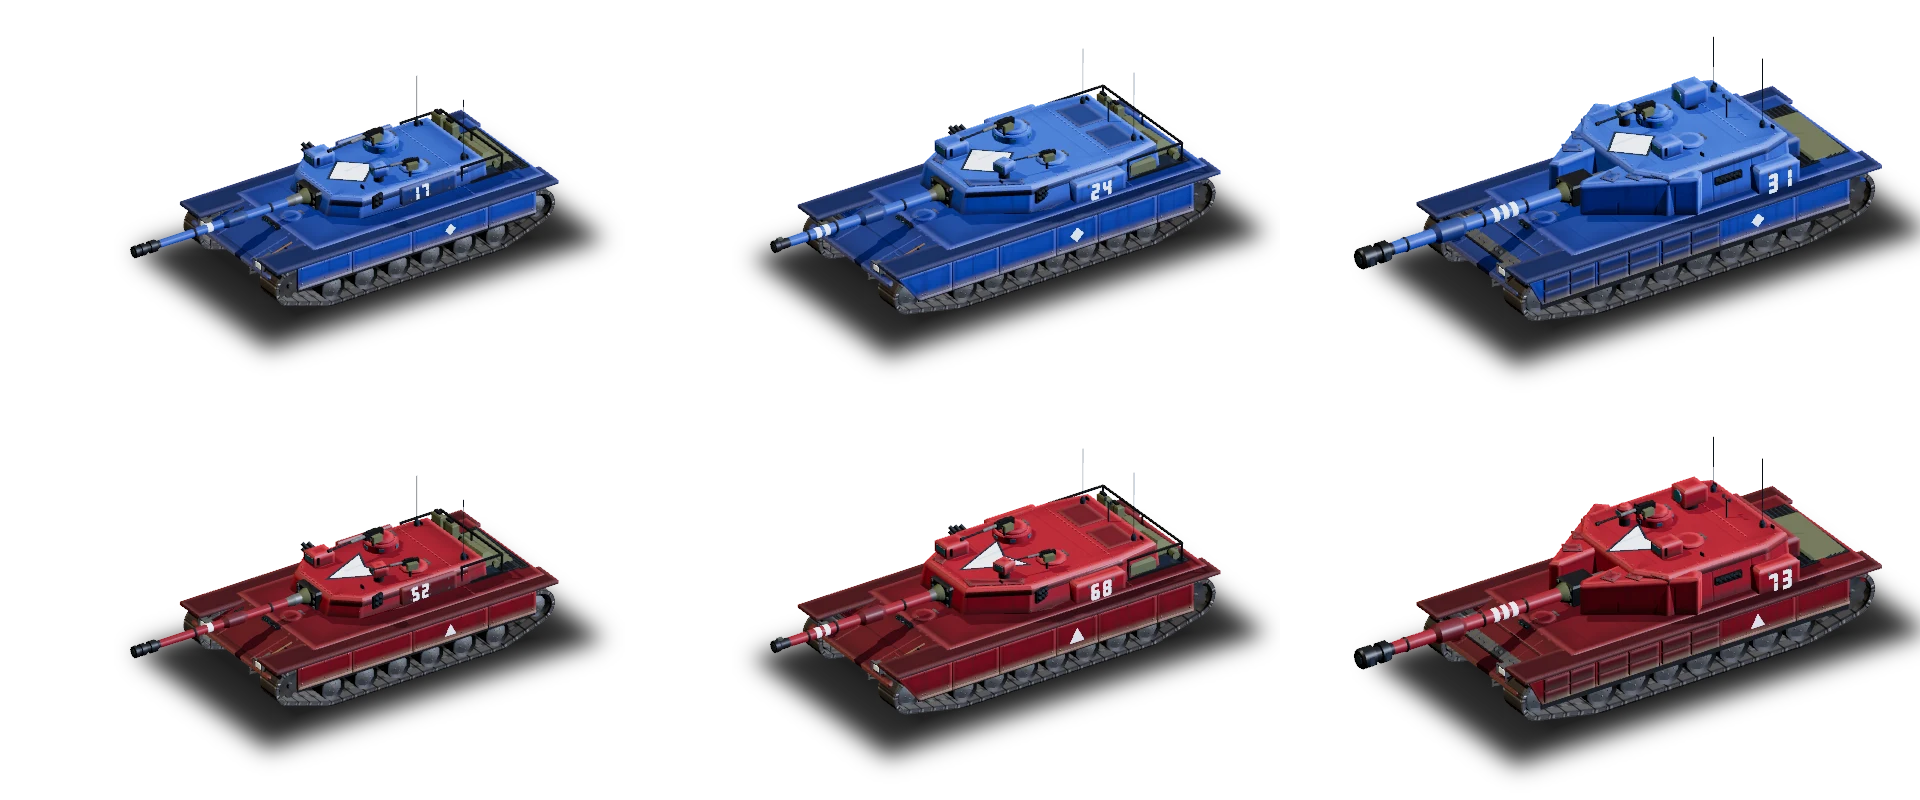
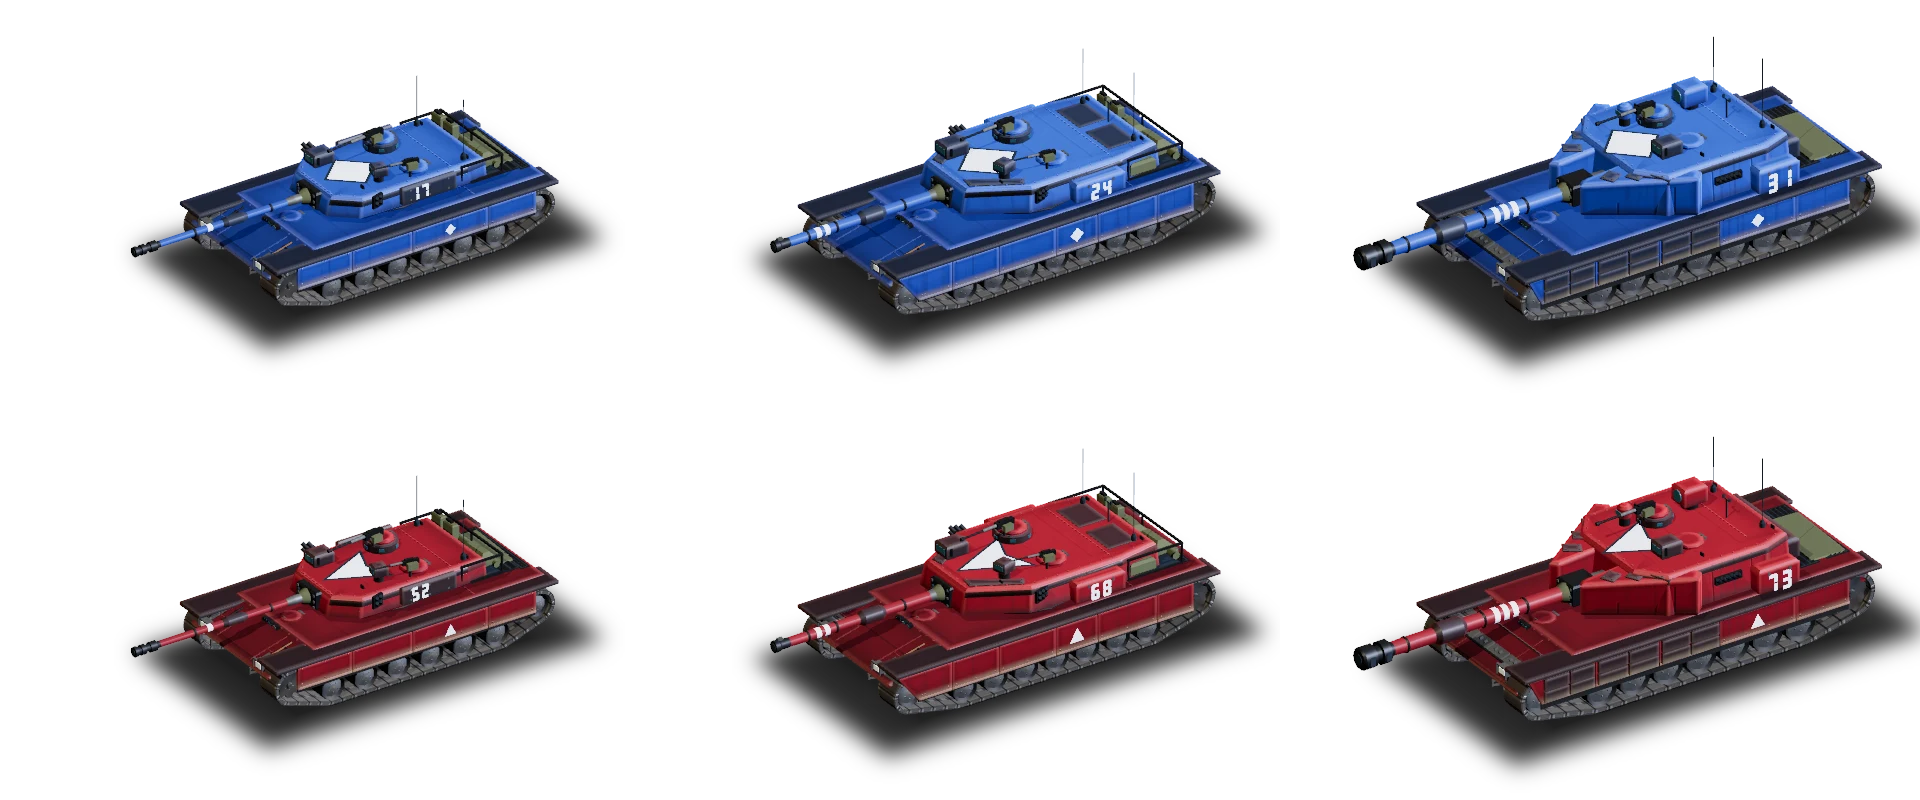
Vehicles round 6: graphite trim and sights, class calibres, larger roof insignia, splashed track dust, front-lit menu cards

diff --git a/tools/tank-previews.ts b/tools/tank-previews.ts
@@ -4,8 +4,8 @@
 // `tools/tank-surface-check.html` shows them at card and gameplay scale.
 //
 // The lighting is a garage card's: a dim warm hemisphere fill over a dark floor, a
-// warm, shadow-casting key light from the front left (out of the decks' specular
-// reflection, which would wash them pink) and a lowered exposure that keeps the
+// warm, shadow-casting key light from the front, over the side the card shows (still
+// out of the decks' specular reflection, which would wash them pink) and a lowered exposure that keeps the
 // red paint below ACES's shoulder (it turns bright red pink), and a strong, near
 // white rim light from behind on the right that lifts the side the card shows off
 // the navy card and edges the silhouette (a distant point light without falloff,
@@ -71,8 +71,8 @@ const SHADOW_OPACITY = 0.82;
 
 const SCENE = {
   background: 0x000000,
-  hemisphere: { sky: 0xfff2e4, ground: 0x3a3f47, intensity: 0.6 },
-  sun: { color: 0xfff1de, intensity: 3.4, position: [-3, 7, 5], target: [0, 0, 0] },
+  hemisphere: { sky: 0xfff2e4, ground: 0x56606e, intensity: 0.72 },
+  sun: { color: 0xfff1de, intensity: 3.0, position: [3, 7, 6], target: [0, 0, 0] },
   // The key casts shadows, so the turret, mantlet and stowage shade the deck and
   // the skirts shade the running gear: the card tanks read as solid models.
   shadow: {

diff --git a/crates/core/src/models/tank_details.rs b/crates/core/src/models/tank_details.rs
@@ -1014,7 +1014,7 @@ fn mantlet(kit: &mut Kit, gun_y: f64, face_z: f64, size: DVec3, tube: f64, coax_
 /// A boxy sight head with a glass window in front, optionally with its two
 /// armored doors swung open.
 fn sight_head(kit: &mut Kit, center: DVec3, size: DVec3, yaw: f64, doors: bool) {
-    kit.chamfer_block(Coat::Paint, size, 0.02, pose(center, v(0.0, yaw, 0.0)));
+    kit.chamfer_block(Coat::Shade, size, 0.02, pose(center, v(0.0, yaw, 0.0)));
     let face = size.z / 2.0;
     let window = v(size.x * 0.7, size.y * 0.42, 0.012);
     let glass_at = yawed(center, yaw, v(0.0, size.y * 0.06, face));
@@ -1080,7 +1080,7 @@ fn cupola(kit: &mut Kit, base: DVec3, radius: f64, blocks: u32) {
         (radius - 0.025, height + 0.015),
         (radius - 0.05, height + 0.015),
     ]);
-    kit.turned(Coat::Paint, &body, 12, pose(base, v(-PI / 2.0, 0.0, 0.0)));
+    kit.turned(Coat::Shade, &body, 12, pose(base, v(-PI / 2.0, 0.0, 0.0)));
     for i in 0..blocks {
         let yaw = f64::from(i) / f64::from(blocks) * PI * 2.0;
         kit.block_at(
@@ -1762,8 +1762,8 @@ fn marking(kit: &mut Kit, c: &Chassis, team: Team, variant: u8) {
         );
     }
     let roof = c.deck + roof_rise(c);
-    let length = c.pick(0.66, 0.78, 0.66);
-    let half_width = c.pick(0.3, 0.36, 0.34);
+    let length = c.pick(0.74, 0.88, 0.78);
+    let half_width = c.pick(0.34, 0.41, 0.4);
     let centre = DVec2::new(0.0, c.pick(0.3, 0.36, 0.28));
     let outline: Vec<DVec2> = if team == Team::Blue {
         p2(&[(0.0, 0.5), (-1.0, 0.0), (0.0, -0.5), (1.0, 0.0)])
@@ -2079,7 +2079,7 @@ const ID_BAND_GAP: f64 = 0.06;
 
 /// Outer radius of the bare gun tube.
 pub(super) fn tube_radius(c: &Chassis) -> f64 {
-    c.pick(0.054, 0.068, 0.084)
+    c.pick(0.046, 0.068, 0.094)
 }
 
 /// z of the muzzle face; the bore disc sits just in front of it.

diff --git a/crates/core/src/models/tests.rs b/crates/core/src/models/tests.rs
@@ -216,7 +216,7 @@ fn wreck_batches_match_golden() {
     #[rustfmt::skip]
     let expected: [(VehicleKind, usize, WreckPart, &[BatchSummary]); 4] = [
         (VehicleKind::Heavy, 1, WreckPart::Hull, &[
-            (3288, 0xdce2fdb4, 1895.8762, 0xa9da9e3f, 0x63df716d),
+            (3288, 0xdce2fdb4, 1895.8762, 0xa9da9e3f, 0x710de2ad),
             (3522, 0xe910d1f9, 2351.8751, 0x3502a7c6, 0x92381cb9),
             (666, 0x985c2eba, 279.3541, 0xaded77ac, 0x8a737151),
             (108, 0xc7a113b5, 38.8671, 0x3ddbc8a5, 0xc415b1ce),
@@ -225,15 +225,15 @@ fn wreck_batches_match_golden() {
             (1344, 0x3d775bdd, 2.8138, 0xb6ce257d, 0x2add3aad),
         ]),
         (VehicleKind::Humvee, 0, WreckPart::TurretBarrel, &[
-            (4560, 0x7b5fde4a, 1209.6605, 0x423aa6fe, 0x4f1b84ac),
+            (4560, 0x7b5fde4a, 1209.6605, 0x423aa6fe, 0x20c058ba),
             (468, 0x74e31910, -19.0127, 0x96734335, 0x3079eafc),
             (936, 0xb40fca71, -27.4347, 0xe9946e96, 0xbc244bd7),
             (348, 0x4b30ac35, -7.1422, 0xa2ea73b1, 0x1593f5ea),
         ]),
         (VehicleKind::Scout, 0, WreckPart::Intact, &[
-            (5436, 0xa36c2354, 3771.8856, 0x90d64b28, 0xb534a392),
-            (7206, 0x7c6b09e2, 1058.8484, 0x3f4158ae, 0xd605b2e6),
-            (2268, 0x132d47f8, 3230.5660, 0x45e0d9a0, 0x22b632d0),
+            (5436, 0x019db6bd, 3799.2748, 0xa25cc151, 0x4522bcd3),
+            (7206, 0xe1047e7f, 1077.4550, 0x4826094f, 0x0bf2ddef),
+            (2268, 0x317b2488, 3230.5660, 0x9d30f92c, 0x605b0e50),
             (468, 0xf62d1b53, -37.2676, 0x2cea9759, 0xa0daa990),
             (3852, 0x85f249fd, 5.7848, 0xc66fb1b5, 0x35b80f2f),
             (1344, 0x546c08d5, 1.5827, 0x10f8f7cd, 0x234753be),

diff --git a/crates/core/src/models/tank_surfaces.rs b/crates/core/src/models/tank_surfaces.rs
@@ -121,12 +121,12 @@ const PAINT_FILL: f32 = 0.08;
 /// Running gear sits in the hull's shadow: more fill, no rim.
 const GEAR_FILL: f32 = 0.45;
 /// Bare steel where the paint chipped through (sRGB).
-const BARE_STEEL: u32 = 0x75716a;
+const BARE_STEEL: u32 = 0x5c5852;
 /// The paint's value on the turret and on the hull: the turret a step lighter, so
 /// it stands off the deck from the overhead camera and its facing reads at a
 /// glance, the hull a step deeper beneath it.
 const TURRET_VALUE: f64 = 1.0;
-const HULL_VALUE: f64 = 0.76;
+const HULL_VALUE: f64 = 0.82;
 /// Recognition panels and turret bands: matte cloth and paint in a team's signal
 /// color, without a glow of their own (a glowing stripe has no source).
 const SIGNAL_GLOW: f32 = 0.0;

diff --git a/crates/core/src/models/tank_model.rs b/crates/core/src/models/tank_model.rs
@@ -40,7 +40,7 @@ pub(crate) const STEEL: u32 = 0x6f706c;
 /// The team color is the body and the deep trim frames it, so the paint reads as
 /// a designed two-tone livery, each class's add-on armor stands out as armor
 /// rather than as dark openings, and the trim still reads as its team.
-const TRIM: [u32; 2] = [0x1d3762, 0x561619];
+const TRIM: [u32; 2] = [0x252c38, 0x302526];
 /// Sight and vision-block glass: a deep blue-green tint that mirrors the sky.
 const GLASS_TINT: u32 = 0x25505a;
 const MARKING_WHITE: u32 = 0xdce7ee;
